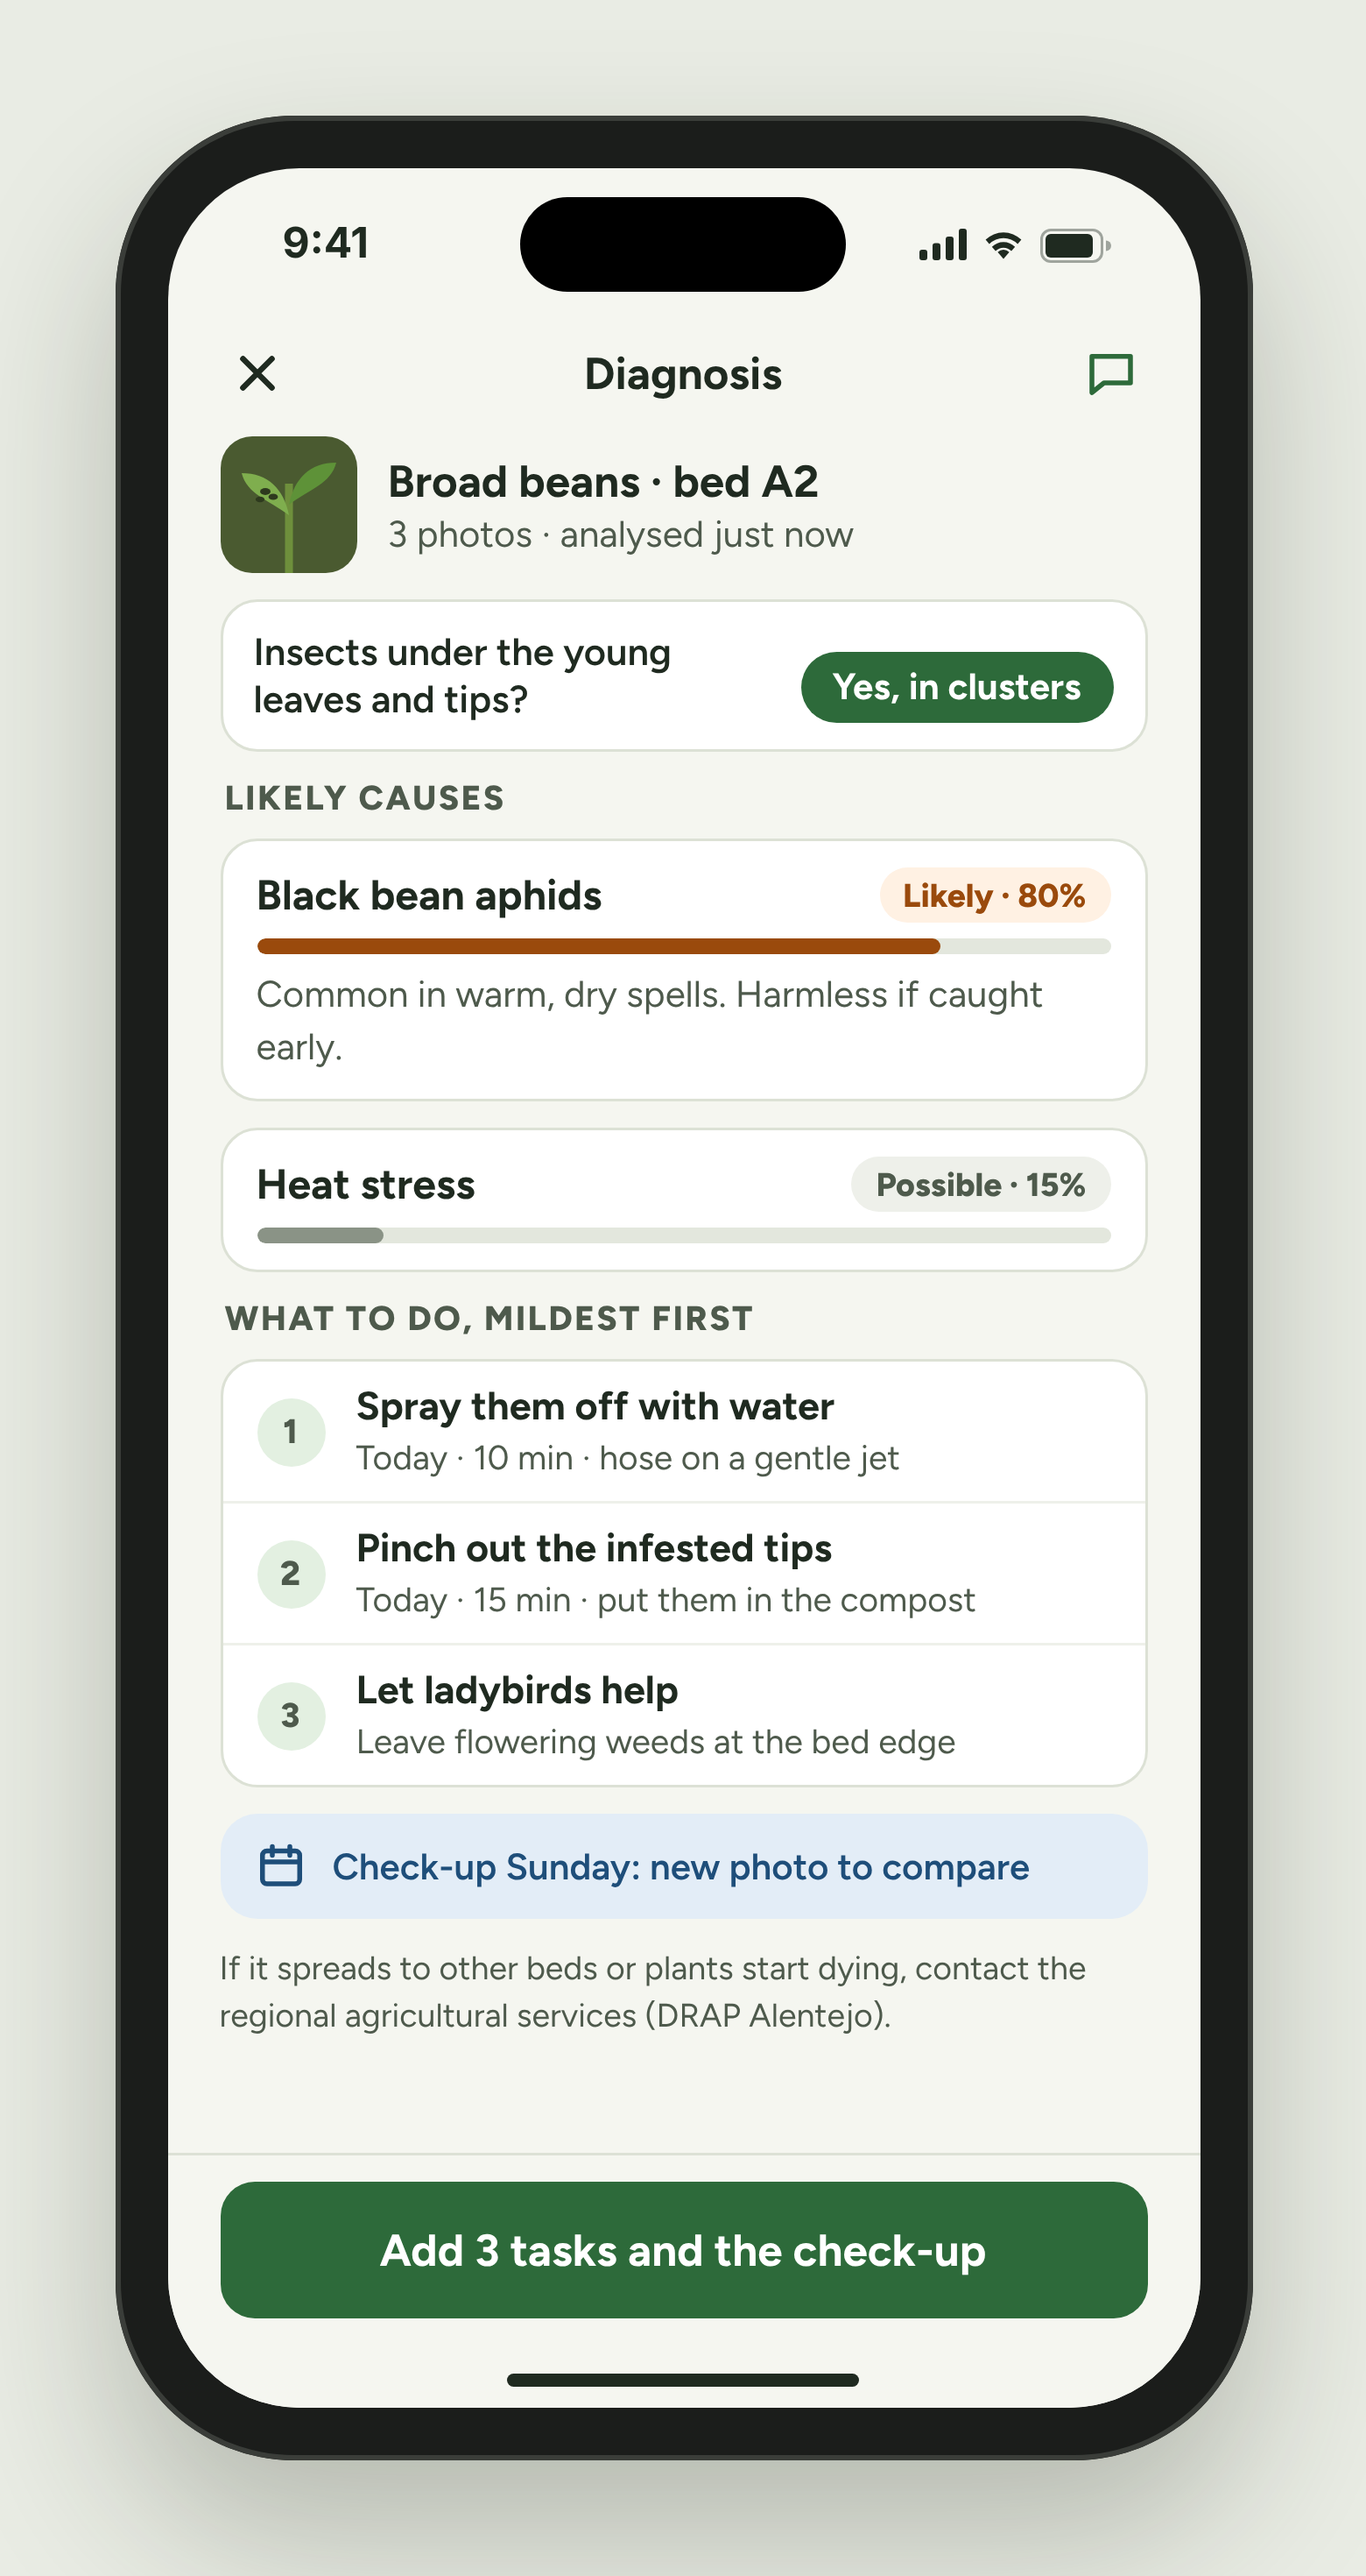
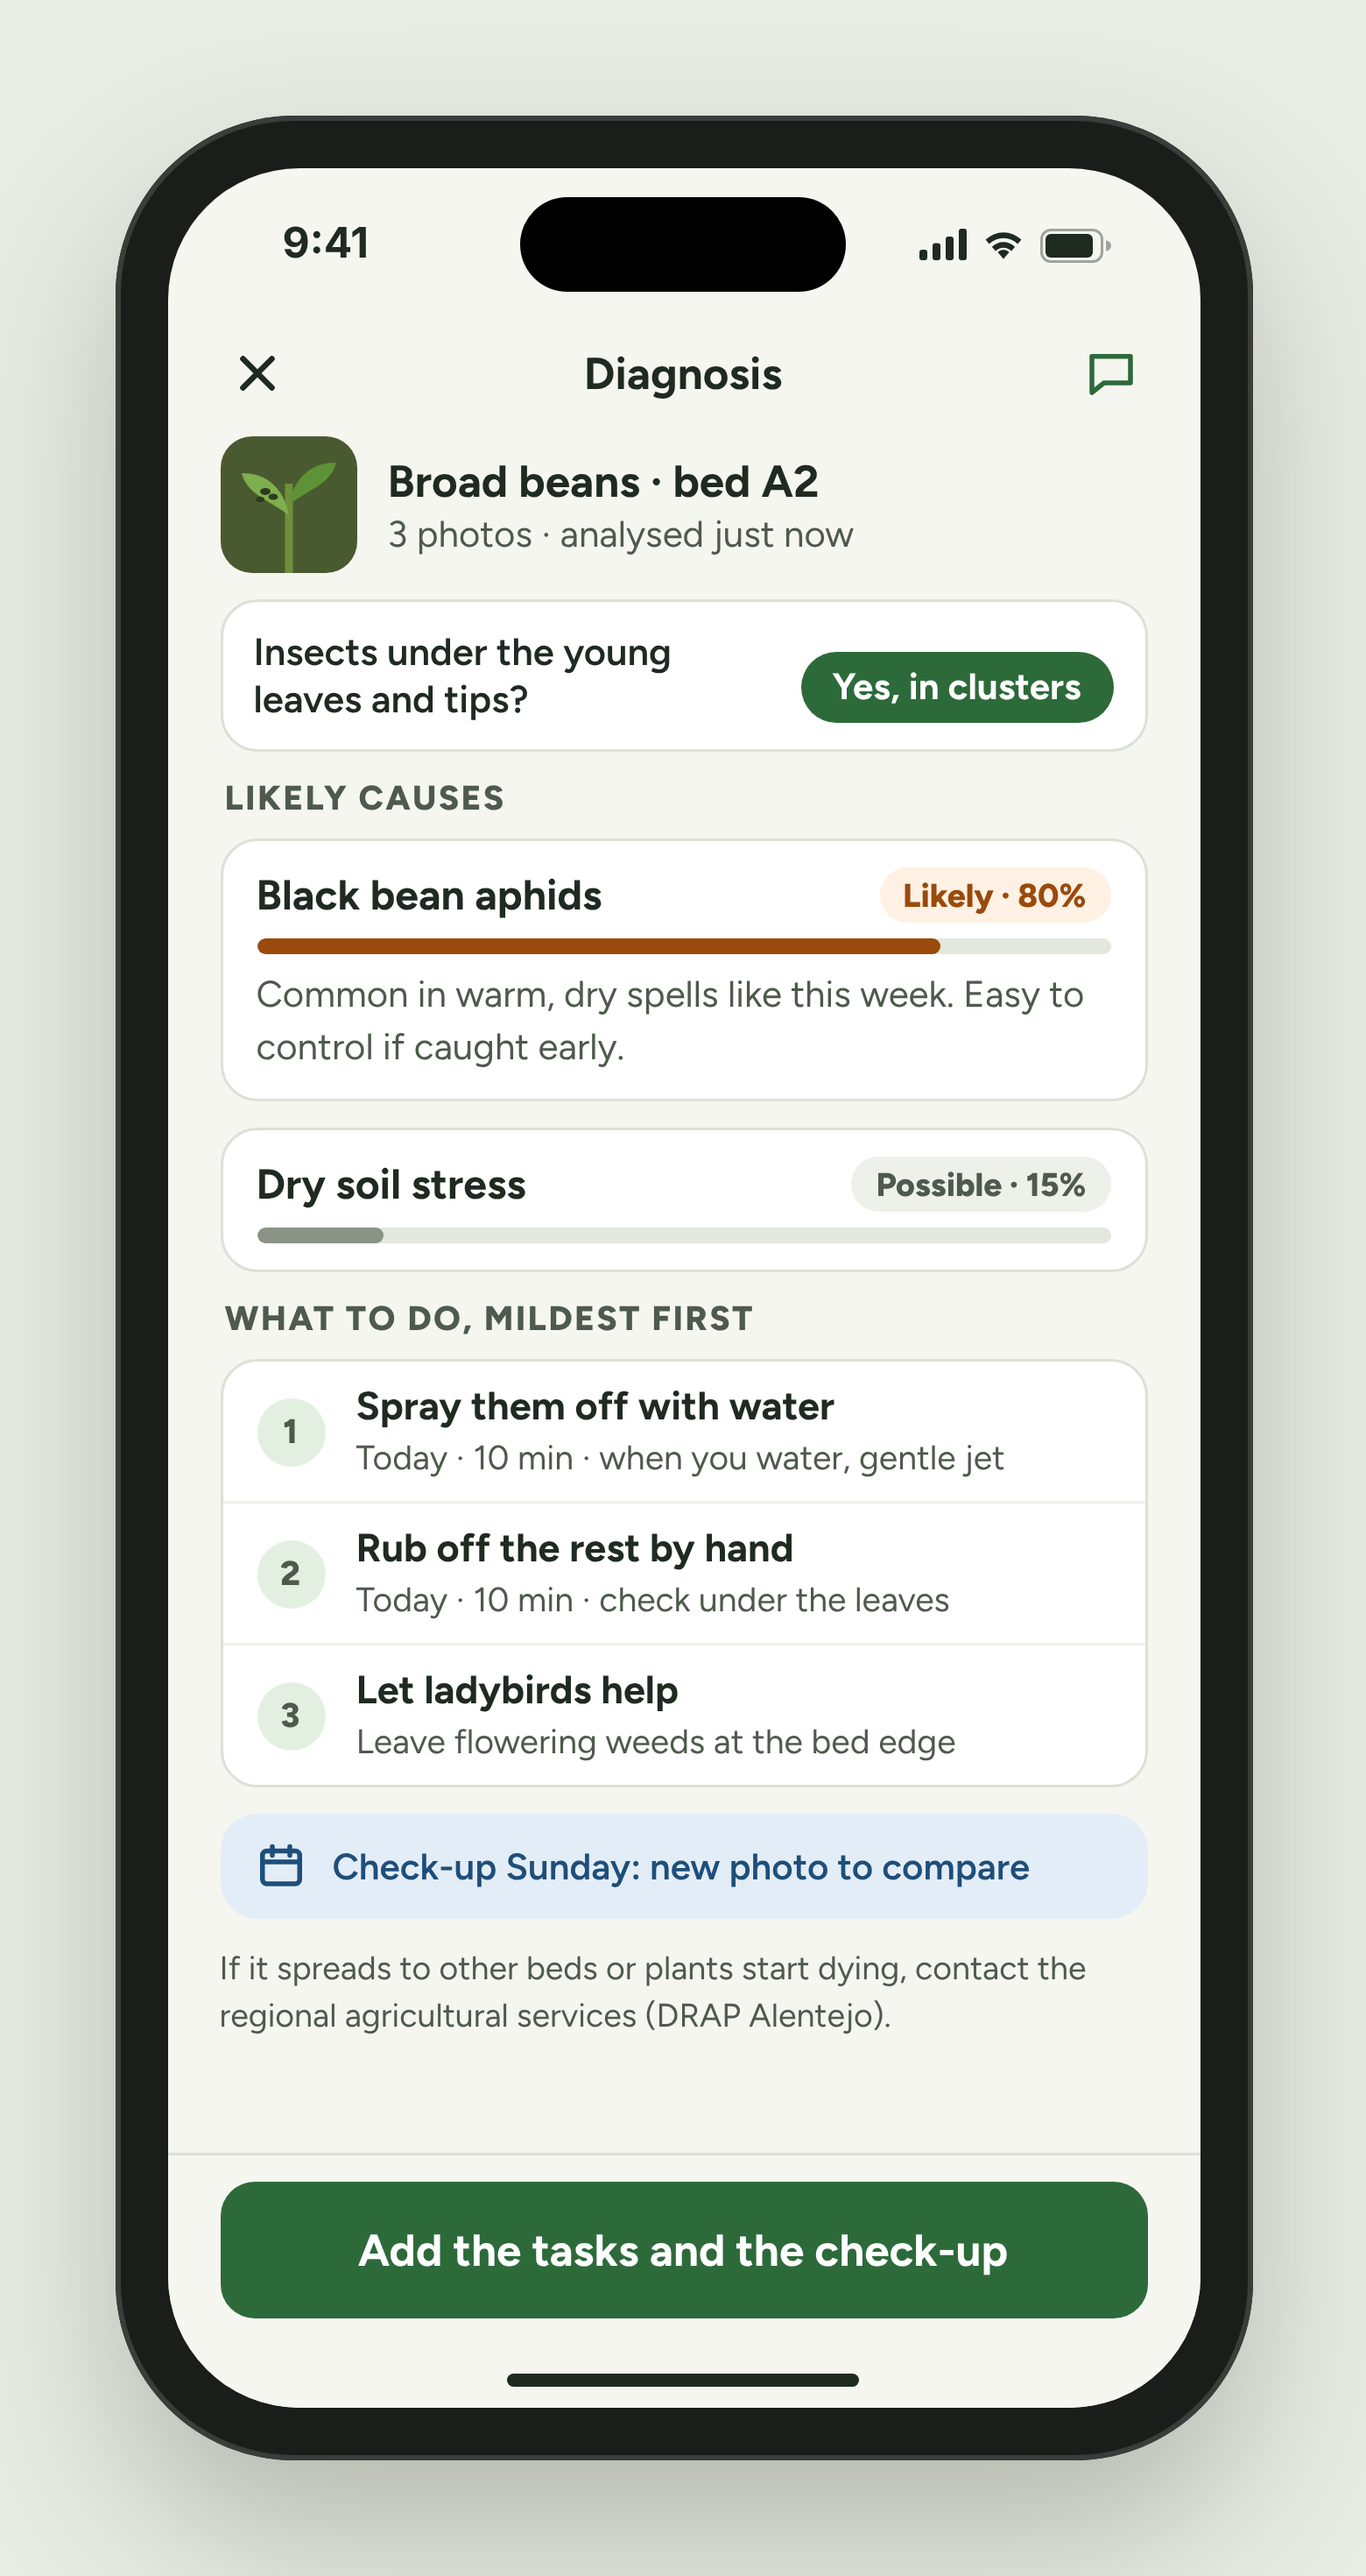
Design D4 diagnosis: advice fits young seedlings, dry soil stress as second cause
Claude-Session: https://claude.ai/code/session_015NynAjU4naPZwzmeuGazot

diff --git a/design/source/D4-diagnosis.html b/design/source/D4-diagnosis.html
@@ -66,17 +66,17 @@
     <div class="cause">
       <div class="h"><b>Black bean aphids</b><span class="tag" style="background: var(--orange-soft); color: var(--orange)">Likely · 80%</span></div>
       <div class="bar"><span style="width: 80%; background: var(--orange)"></span></div>
-      <p>Common in warm, dry spells. Harmless if caught early.</p>
+      <p>Common in warm, dry spells like this week. Easy to control if caught early.</p>
     </div>
     <div class="cause">
-      <div class="h"><b>Heat stress</b><span class="tag" style="background: #EEF0EA; color: var(--muted)">Possible · 15%</span></div>
+      <div class="h"><b>Dry soil stress</b><span class="tag" style="background: #EEF0EA; color: var(--muted)">Possible · 15%</span></div>
       <div class="bar"><span style="width: 15%; background: #8A9386"></span></div>
     </div>
 
     <div class="sec">What to do, mildest first</div>
     <div class="plan">
-      <div class="step"><span class="n">1</span><div><b>Spray them off with water</b><span>Today · 10 min · hose on a gentle jet</span></div></div>
-      <div class="step"><span class="n">2</span><div><b>Pinch out the infested tips</b><span>Today · 15 min · put them in the compost</span></div></div>
+      <div class="step"><span class="n">1</span><div><b>Spray them off with water</b><span>Today · 10 min · when you water, gentle jet</span></div></div>
+      <div class="step"><span class="n">2</span><div><b>Rub off the rest by hand</b><span>Today · 10 min · check under the leaves</span></div></div>
       <div class="step"><span class="n">3</span><div><b>Let ladybirds help</b><span>Leave flowering weeds at the bed edge</span></div></div>
     </div>
     <div class="check">
@@ -86,7 +86,7 @@
     <p class="note">If it spreads to other beds or plants start dying, contact the regional agricultural services (DRAP Alentejo).</p>
   </div>
 
-  <div class="actions"><div class="btn primary">Add 3 tasks and the check-up</div></div>
+  <div class="actions"><div class="btn primary">Add the tasks and the check-up</div></div>
   <div class="home"></div>
 </div></div></div>
 </body>
